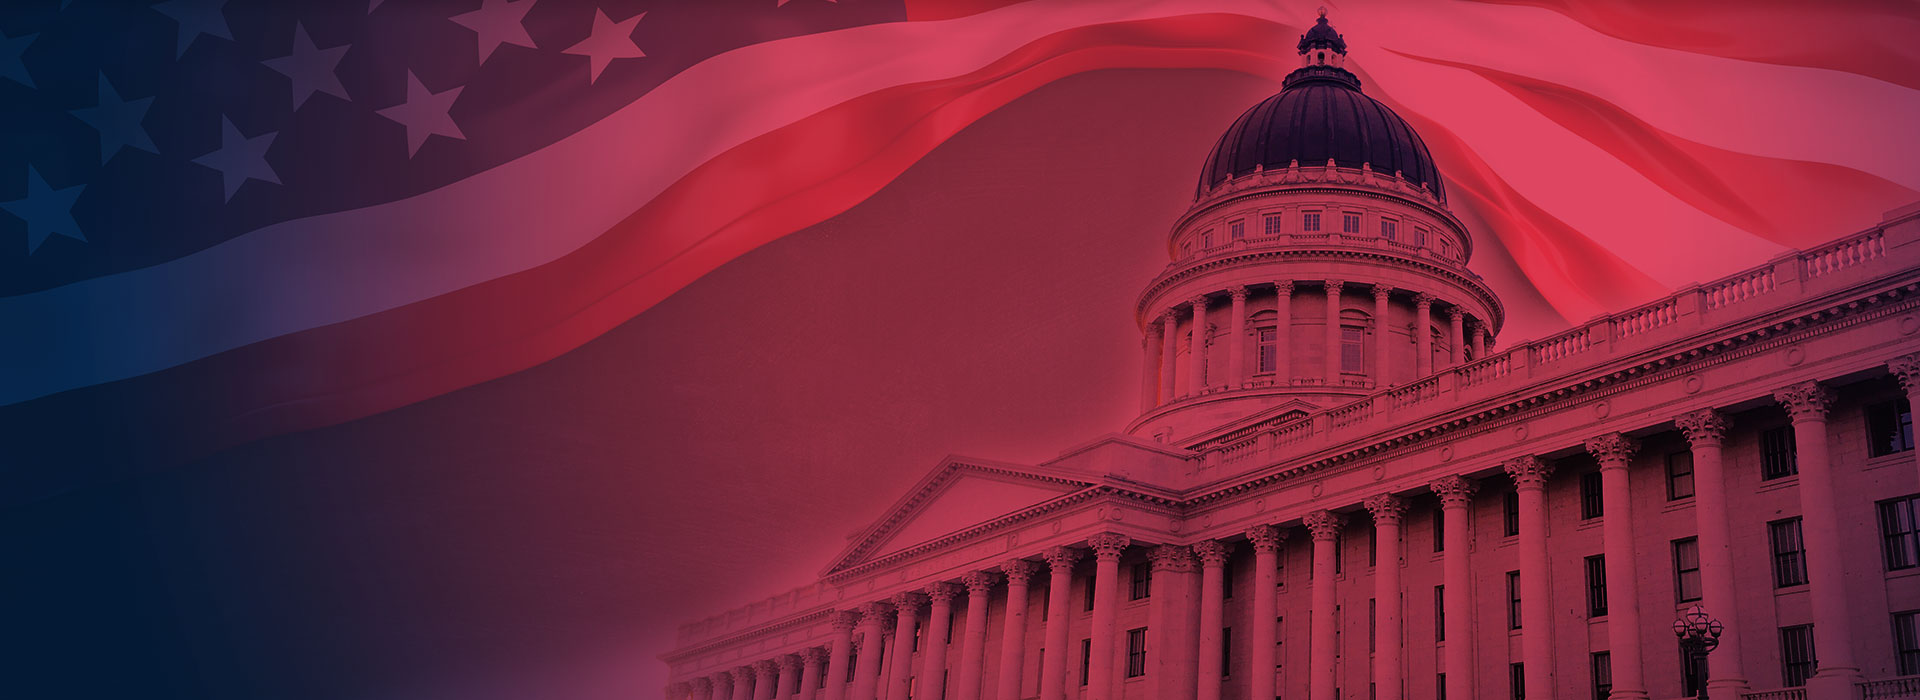
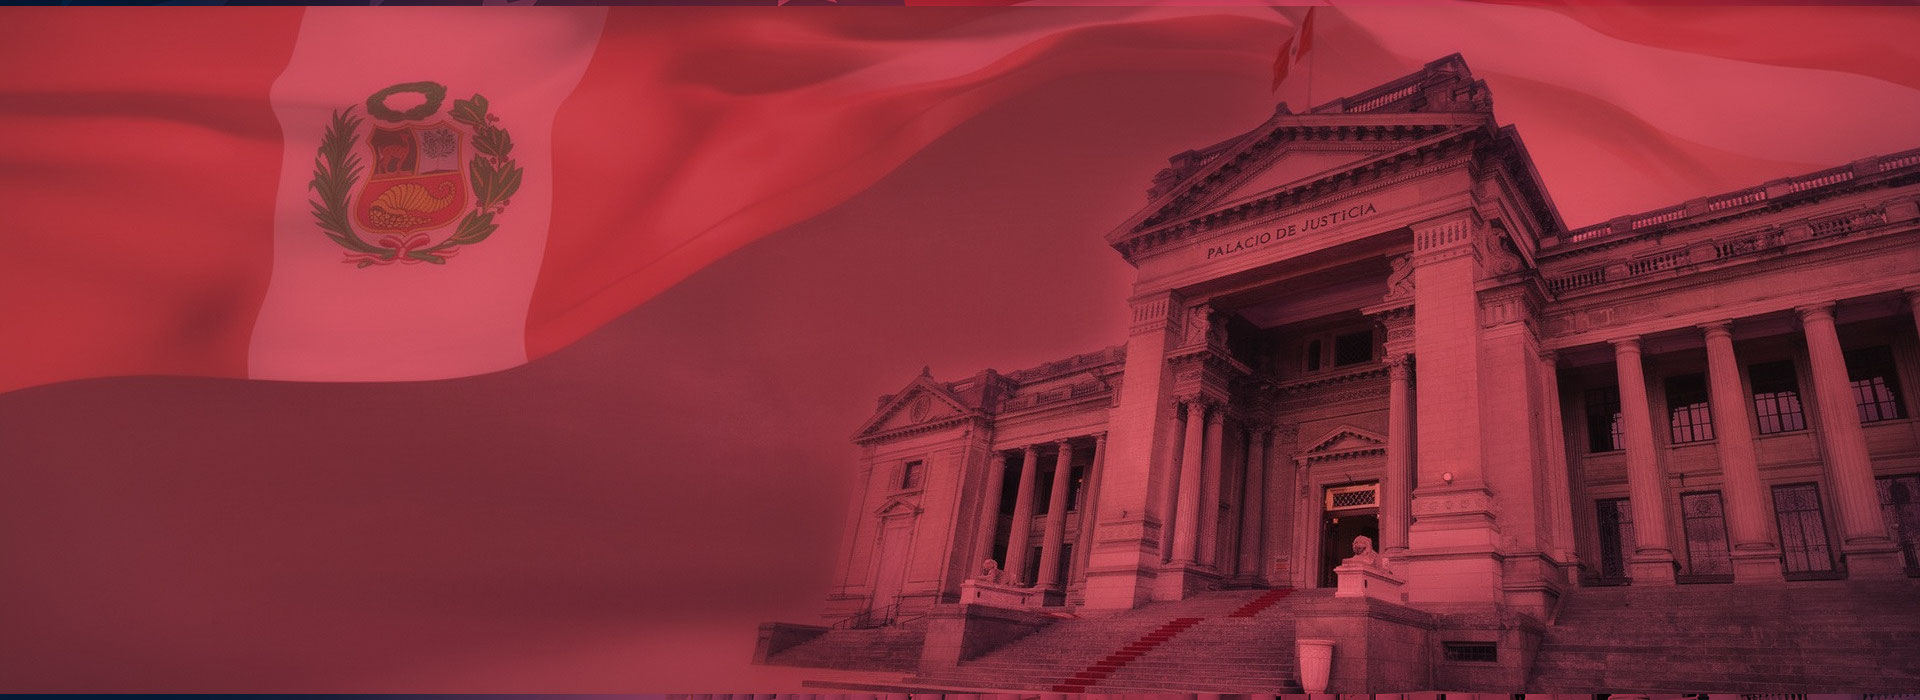
redesign img slider

diff --git a/.redesign/css/custom.css b/.redesign/css/custom.css
@@ -2649,6 +2649,17 @@ filter: progid:DXImageTransform.Microsoft.gradient( startColorstr='#00000000', e
 	text-align: center;
 	padding: 19px 0;
 }
+.h3-logo-row .h3-logo a {
+	display: inline-block;
+	max-width: 100%;
+}
+.h3-logo-row .h3-logo img {
+	display: block;
+	max-width: 100%;
+	height: auto;
+	width: min(820px, 50%);
+	margin: 0 auto;
+}
 .h3-logo-row ul.quick-links {
 	margin: 20px 0 14px;
 	padding: 0;
@@ -7058,4 +7069,3 @@ a[data-toggle="collapse"] {
 	-webkit-transition: all ease-in-out 0.3s;
 }
 /******** + ========== + Transition End + ========== + ********/
-9
